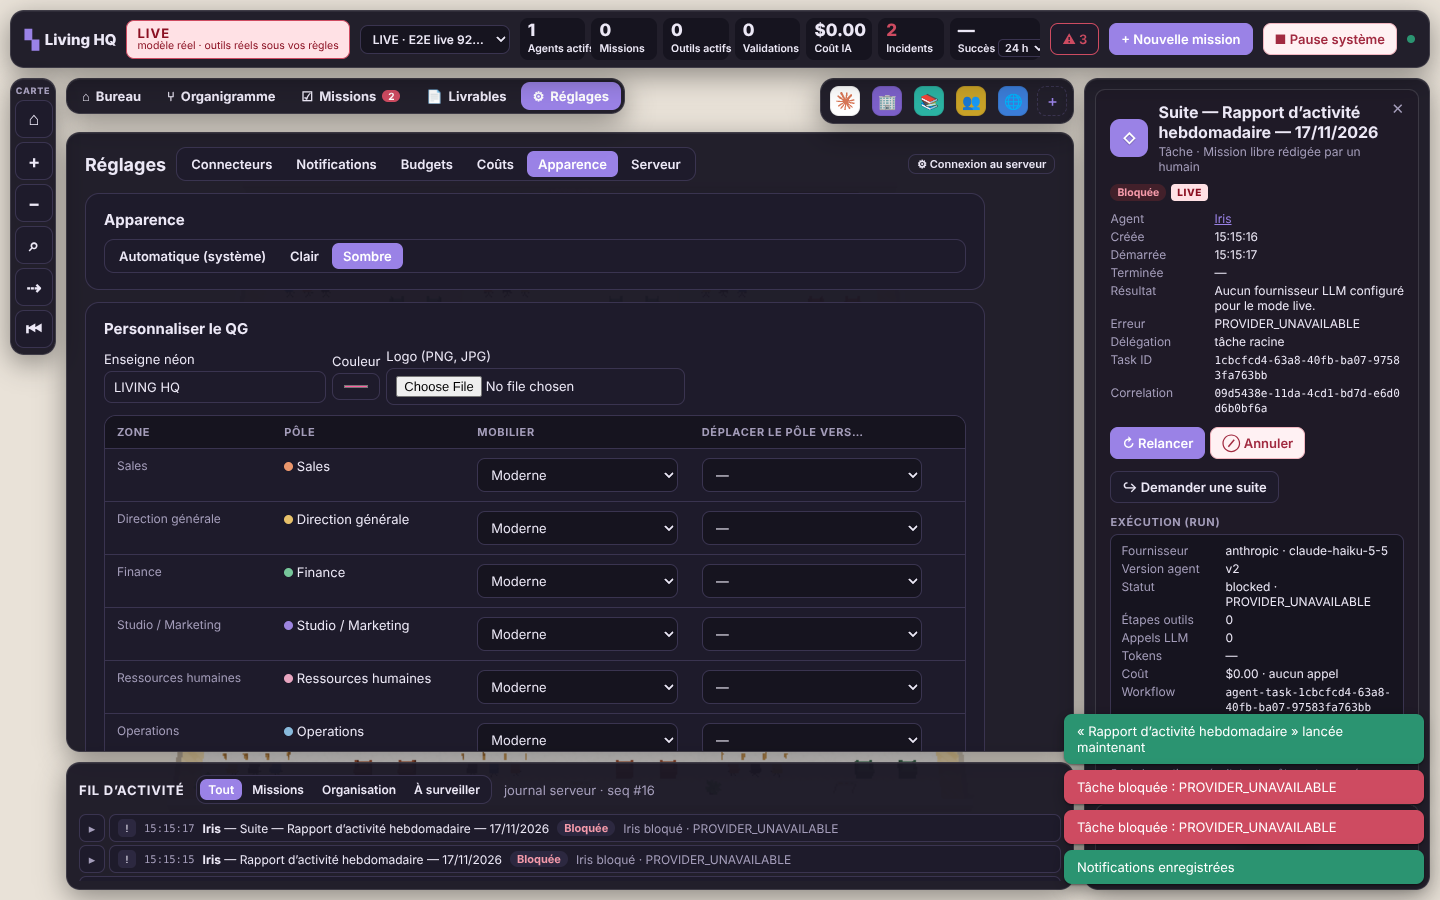
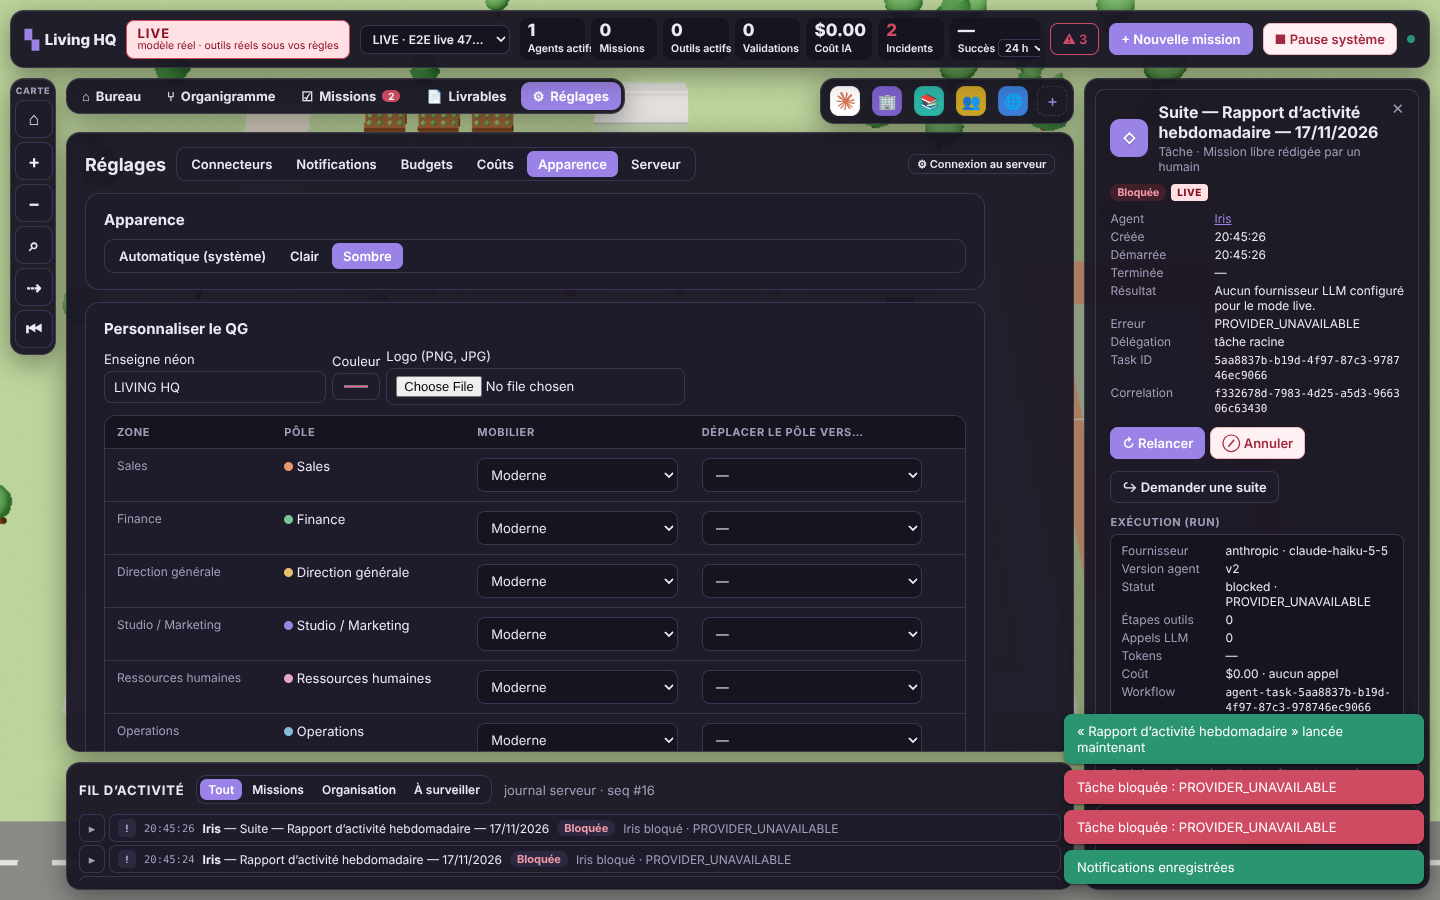
3D : lampes de nuit masquées de jour (shaders allégés, chargement plus rapide)
Chaque lumière, même éteinte, alourdissait la compilation des shaders du plan Campus.
Captures régénérées par les e2e.

Claude-Session: https://claude.ai/code/session_01DsWanc4oZCj3FsQZvrfyLX

diff --git a/apps/web/src/world/StudioScene.ts b/apps/web/src/world/StudioScene.ts
@@ -2147,7 +2147,11 @@ export class StudioScene implements HqWorldView {
     this.hemi.color.set(n ? '#7f8fc8' : '#fffaf2');
     this.sun.intensity = n ? 0.45 : 2.6;
     this.sun.color.set(n ? '#9fb2ee' : '#fff3e0');
-    this.lamps.forEach((l) => (l.intensity = n ? 9 : 0));
+    // Lampes masquées de jour : chaque lumière, même éteinte, alourdit tous les shaders.
+    this.lamps.forEach((l) => {
+      l.visible = n;
+      l.intensity = n ? 9 : 0;
+    });
     this.lampShades.forEach((m) => m.emissive.set(n ? '#ffcf8a' : '#000000'));
     this.windows.forEach((m) => m.color.set(n ? '#22335c' : '#cfe8ff'));
     if (this.neon) this.neon.opacity = n ? 1 : 0.85;
